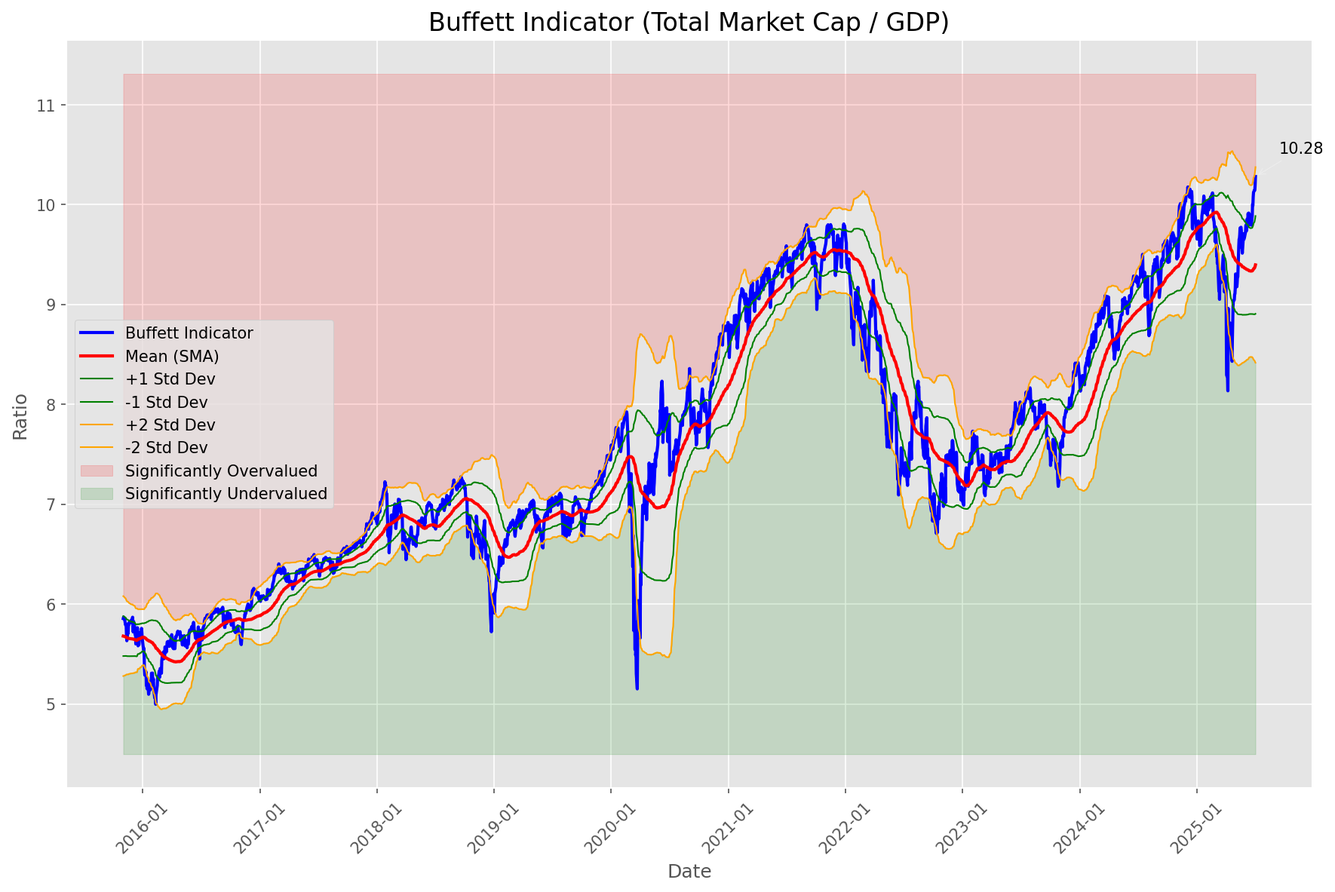
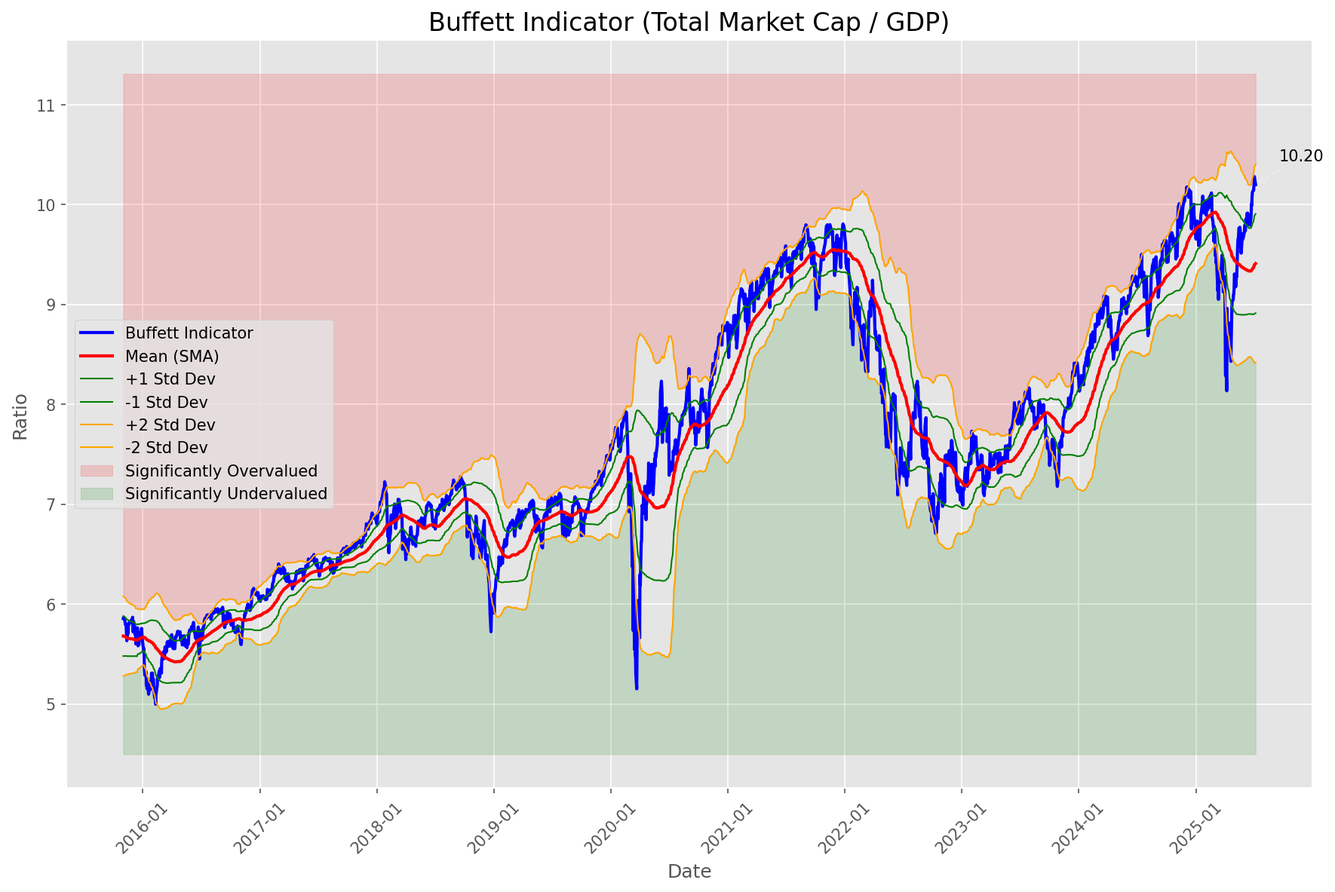
Add market report for 2025-07-08

diff --git a/oneil_relative_strength_report_2025-07-08.md b/oneil_relative_strength_report_2025-07-08.md
@@ -10,10 +10,10 @@
 |--------|-------|
 | **Market Valuation** | **Overvalued** |
 | **Current Ratio** | 10.20 |
-| **Historical Mean** | 9.40 |
-| **Standard Deviation** | 0.49 |
-| **Z-Score (StdDev from Mean)** | 1.81 |
-| **Total Market Cap** | $305.60 trillion |
+| **Historical Mean** | 9.41 |
+| **Standard Deviation** | 0.50 |
+| **Z-Score (StdDev from Mean)** | 1.59 |
+| **Total Market Cap** | $305.67 trillion |
 | **GDP** | $29.96 trillion |
 
 ## **Market Insights**
@@ -49,41 +49,41 @@ Based on William O'Neil's Relative Strength Methodology
 
 | ETF | Strength | RS Rating | Performance | Above Key MAs | Trend | Sector |
 |-----|----------|-----------|-------------|--------------|-------|--------|
-| [ARKW](https://www.tradingview.com/chart/?symbol=ARKW) | 98.5 | 97.0 | 62.73% | 10d ✓, 50d ✓, 200d ✓ | ↗ | Next Generation Internet |
-| [ARKK](https://www.tradingview.com/chart/?symbol=ARKK) | 98.0 | 96.0 | 56.12% | 10d ✓, 50d ✓, 200d ✓ | ↗ | Innovation |
-| [ARKF](https://www.tradingview.com/chart/?symbol=ARKF) | 98.0 | 96.0 | 59.26% | 10d ✓, 50d ✓, 200d ✓ | ↗ | Fintech Innovation |
-| [BLOK](https://www.tradingview.com/chart/?symbol=BLOK) | 97.5 | 95.0 | 53.81% | 10d ✓, 50d ✓, 200d ✓ | ↗ | Blockchain & Cryptocurrency |
-| [XLK](https://www.tradingview.com/chart/?symbol=XLK) | 92.5 | 85.0 | 30.57% | 10d ✓, 50d ✓, 200d ✓ | ↗ | Technology |
-| [AIQ](https://www.tradingview.com/chart/?symbol=AIQ) | 90.0 | 80.0 | 25.01% | 10d ✓, 50d ✓, 200d ✓ | ↗ | Artificial Intelligence & Technology |
-| [JETS](https://www.tradingview.com/chart/?symbol=JETS) | 89.5 | 79.0 | 24.53% | 10d ✓, 50d ✓, 200d ✓ | ↗ | Airlines |
-| [URA](https://www.tradingview.com/chart/?symbol=URA) | 89.1 | 98.0 | 69.10% | 10d ✗, 50d ✓, 200d ✓ | ↗ | Uranium |
-| [CIBR](https://www.tradingview.com/chart/?symbol=CIBR) | 89.0 | 78.0 | 23.52% | 10d ✓, 50d ✓, 200d ✓ | ↗ | Cybersecurity |
-| [PAVE](https://www.tradingview.com/chart/?symbol=PAVE) | 88.5 | 77.0 | 23.07% | 10d ✓, 50d ✓, 200d ✓ | ↗ | Infrastructure |
-| [XLI](https://www.tradingview.com/chart/?symbol=XLI) | 85.0 | 70.0 | 18.32% | 10d ✓, 50d ✓, 200d ✓ | ↗ | Industrial |
-| [SLV](https://www.tradingview.com/chart/?symbol=SLV) | 82.5 | 65.0 | 15.71% | 10d ✓, 50d ✓, 200d ✓ | ↗ | Silver |
-| [XLC](https://www.tradingview.com/chart/?symbol=XLC) | 82.5 | 65.0 | 15.64% | 10d ✓, 50d ✓, 200d ✓ | ↗ | Communications |
-| [XLY](https://www.tradingview.com/chart/?symbol=XLY) | 81.5 | 63.0 | 14.33% | 10d ✓, 50d ✓, 200d ✓ | ↗ | Consumer Discretionary |
-| [IYZ](https://www.tradingview.com/chart/?symbol=IYZ) | 79.0 | 58.0 | 12.04% | 10d ✓, 50d ✓, 200d ✓ | ↗ | Telecommunications |
-| [XLF](https://www.tradingview.com/chart/?symbol=XLF) | 77.5 | 55.0 | 10.46% | 10d ✓, 50d ✓, 200d ✓ | ↗ | Financial |
-| [SOXX](https://www.tradingview.com/chart/?symbol=SOXX) | 75.5 | 91.0 | 40.16% | 10d ✓, 50d ✓, 200d ✓ | ↘ | Semiconductors |
-| [GLD](https://www.tradingview.com/chart/?symbol=GLD) | 73.5 | 47.0 | 7.31% | 10d ✓, 50d ✓, 200d ✓ | ↗ | Gold |
-| [XLU](https://www.tradingview.com/chart/?symbol=XLU) | 70.0 | 40.0 | 3.92% | 10d ✓, 50d ✓, 200d ✓ | ↗ | Utilities |
-| [IYT](https://www.tradingview.com/chart/?symbol=IYT) | 65.0 | 70.0 | 18.38% | 10d ✓, 50d ✓, 200d ✓ | ↘ | Transportation |
-| [XLP](https://www.tradingview.com/chart/?symbol=XLP) | 65.0 | 30.0 | 0.11% | 10d ✓, 50d ✓, 200d ✓ | ↗ | Consumer Staples |
-| [ICLN](https://www.tradingview.com/chart/?symbol=ICLN) | 63.0 | 66.0 | 16.17% | 10d ✓, 50d ✓, 200d ✓ | ↘ | Clean Energy |
-| [ARKG](https://www.tradingview.com/chart/?symbol=ARKG) | 59.1 | 78.0 | 23.35% | 10d ✗, 50d ✓, 200d ✓ | ↘ | Genomics |
-| [XLB](https://www.tradingview.com/chart/?symbol=XLB) | 55.5 | 51.0 | 8.92% | 10d ✓, 50d ✓, 200d ✓ | ↘ | Materials |
-| [KWEB](https://www.tradingview.com/chart/?symbol=KWEB) | 51.1 | 22.0 | -2.00% | 10d ✗, 50d ✓, 200d ✓ | ↗ | Chinese Internet |
-| [DBC](https://www.tradingview.com/chart/?symbol=DBC) | 48.0 | 36.0 | 2.39% | 10d ✓, 50d ✓, 200d ✓ | ↘ | Commodities |
-| [ITB](https://www.tradingview.com/chart/?symbol=ITB) | 40.8 | 42.0 | 4.78% | 10d ✓, 50d ✓, 200d ✗ | ↘ | Home Construction |
-| [IBB](https://www.tradingview.com/chart/?symbol=IBB) | 39.3 | 39.0 | 3.50% | 10d ✓, 50d ✓, 200d ✗ | ↘ | Biotechnology |
-| [XLE](https://www.tradingview.com/chart/?symbol=XLE) | 32.8 | 26.0 | -0.63% | 10d ✓, 50d ✓, 200d ✗ | ↘ | Energy |
-| [DBA](https://www.tradingview.com/chart/?symbol=DBA) | 27.5 | 15.0 | -5.41% | 10d ✗, 50d ✗, 200d ✗ | ↗ | Agriculture |
-| [IYR](https://www.tradingview.com/chart/?symbol=IYR) | 27.4 | 35.0 | 1.92% | 10d ✗, 50d ✓, 200d ✗ | ↘ | Real Estate |
-| [UUP](https://www.tradingview.com/chart/?symbol=UUP) | 19.4 | 19.0 | -3.15% | 10d ✓, 50d ✗, 200d ✗ | ↘ | U.S. Dollar |
-| [BIL](https://www.tradingview.com/chart/?symbol=BIL) | 14.5 | 29.0 | 0.07% | 10d ✗, 50d ✗, 200d ✗ | ↘ | Short-term Treasuries |
-| [TLT](https://www.tradingview.com/chart/?symbol=TLT) | 7.0 | 14.0 | -6.22% | 10d ✗, 50d ✗, 200d ✗ | ↘ | Long-term Treasuries |
-| [XLV](https://www.tradingview.com/chart/?symbol=XLV) | 7.0 | 14.0 | -6.13% | 10d ✗, 50d ✗, 200d ✗ | ↘ | Healthcare |
+| [ARKK](https://www.tradingview.com/chart/?symbol=ARKK) | 98.5 | 97.0 | 68.72% | 10d ✓, 50d ✓, 200d ✓ | ↗ | Innovation |
+| [ARKW](https://www.tradingview.com/chart/?symbol=ARKW) | 98.0 | 96.0 | 62.73% | 10d ✓, 50d ✓, 200d ✓ | ↗ | Next Generation Internet |
+| [ARKF](https://www.tradingview.com/chart/?symbol=ARKF) | 97.5 | 95.0 | 59.26% | 10d ✓, 50d ✓, 200d ✓ | ↗ | Fintech Innovation |
+| [BLOK](https://www.tradingview.com/chart/?symbol=BLOK) | 96.5 | 93.0 | 53.81% | 10d ✓, 50d ✓, 200d ✓ | ↗ | Blockchain & Cryptocurrency |
+| [XLK](https://www.tradingview.com/chart/?symbol=XLK) | 94.0 | 88.0 | 40.28% | 10d ✓, 50d ✓, 200d ✓ | ↗ | Technology |
+| [AIQ](https://www.tradingview.com/chart/?symbol=AIQ) | 92.5 | 85.0 | 34.72% | 10d ✓, 50d ✓, 200d ✓ | ↗ | Artificial Intelligence & Technology |
+| [JETS](https://www.tradingview.com/chart/?symbol=JETS) | 92.0 | 84.0 | 33.72% | 10d ✓, 50d ✓, 200d ✓ | ↗ | Airlines |
+| [CIBR](https://www.tradingview.com/chart/?symbol=CIBR) | 91.0 | 82.0 | 31.80% | 10d ✓, 50d ✓, 200d ✓ | ↗ | Cybersecurity |
+| [URA](https://www.tradingview.com/chart/?symbol=URA) | 89.1 | 98.0 | 78.84% | 10d ✗, 50d ✓, 200d ✓ | ↗ | Uranium |
+| [XLI](https://www.tradingview.com/chart/?symbol=XLI) | 88.0 | 76.0 | 26.11% | 10d ✓, 50d ✓, 200d ✓ | ↗ | Industrial |
+| [PAVE](https://www.tradingview.com/chart/?symbol=PAVE) | 86.5 | 73.0 | 23.07% | 10d ✓, 50d ✓, 200d ✓ | ↗ | Infrastructure |
+| [SLV](https://www.tradingview.com/chart/?symbol=SLV) | 85.5 | 71.0 | 22.38% | 10d ✓, 50d ✓, 200d ✓ | ↗ | Silver |
+| [XLY](https://www.tradingview.com/chart/?symbol=XLY) | 83.0 | 66.0 | 19.34% | 10d ✓, 50d ✓, 200d ✓ | ↗ | Consumer Discretionary |
+| [XLF](https://www.tradingview.com/chart/?symbol=XLF) | 82.0 | 64.0 | 18.65% | 10d ✓, 50d ✓, 200d ✓ | ↗ | Financial |
+| [SOXX](https://www.tradingview.com/chart/?symbol=SOXX) | 76.5 | 93.0 | 53.39% | 10d ✓, 50d ✓, 200d ✓ | ↘ | Semiconductors |
+| [IYZ](https://www.tradingview.com/chart/?symbol=IYZ) | 76.0 | 52.0 | 12.04% | 10d ✓, 50d ✓, 200d ✓ | ↗ | Telecommunications |
+| [XLC](https://www.tradingview.com/chart/?symbol=XLC) | 75.6 | 71.0 | 22.22% | 10d ✗, 50d ✓, 200d ✓ | ↗ | Communications |
+| [KWEB](https://www.tradingview.com/chart/?symbol=KWEB) | 74.0 | 48.0 | 10.46% | 10d ✓, 50d ✓, 200d ✓ | ↗ | Chinese Internet |
+| [ARKG](https://www.tradingview.com/chart/?symbol=ARKG) | 70.5 | 81.0 | 30.60% | 10d ✓, 50d ✓, 200d ✓ | ↘ | Genomics |
+| [XLP](https://www.tradingview.com/chart/?symbol=XLP) | 67.0 | 34.0 | 3.93% | 10d ✓, 50d ✓, 200d ✓ | ↗ | Consumer Staples |
+| [ICLN](https://www.tradingview.com/chart/?symbol=ICLN) | 64.5 | 69.0 | 21.33% | 10d ✓, 50d ✓, 200d ✓ | ↘ | Clean Energy |
+| [IYT](https://www.tradingview.com/chart/?symbol=IYT) | 62.0 | 64.0 | 18.38% | 10d ✓, 50d ✓, 200d ✓ | ↘ | Transportation |
+| [XLB](https://www.tradingview.com/chart/?symbol=XLB) | 60.0 | 60.0 | 16.55% | 10d ✓, 50d ✓, 200d ✓ | ↘ | Materials |
+| [GLD](https://www.tradingview.com/chart/?symbol=GLD) | 52.7 | 45.0 | 8.87% | 10d ✗, 50d ✗, 200d ✓ | ↗ | Gold |
+| [XLU](https://www.tradingview.com/chart/?symbol=XLU) | 52.2 | 44.0 | 8.23% | 10d ✗, 50d ✗, 200d ✓ | ↗ | Utilities |
+| [DBC](https://www.tradingview.com/chart/?symbol=DBC) | 45.5 | 31.0 | 2.39% | 10d ✓, 50d ✓, 200d ✓ | ↘ | Commodities |
+| [XLE](https://www.tradingview.com/chart/?symbol=XLE) | 44.8 | 50.0 | 11.06% | 10d ✓, 50d ✓, 200d ✗ | ↘ | Energy |
+| [IBB](https://www.tradingview.com/chart/?symbol=IBB) | 44.3 | 49.0 | 10.58% | 10d ✓, 50d ✓, 200d ✗ | ↘ | Biotechnology |
+| [ITB](https://www.tradingview.com/chart/?symbol=ITB) | 35.8 | 32.0 | 2.76% | 10d ✓, 50d ✓, 200d ✗ | ↘ | Home Construction |
+| [XLV](https://www.tradingview.com/chart/?symbol=XLV) | 32.3 | 25.0 | 0.10% | 10d ✓, 50d ✓, 200d ✗ | ↘ | Healthcare |
+| [IYR](https://www.tradingview.com/chart/?symbol=IYR) | 29.9 | 40.0 | 6.49% | 10d ✗, 50d ✓, 200d ✗ | ↘ | Real Estate |
+| [DBA](https://www.tradingview.com/chart/?symbol=DBA) | 26.0 | 12.0 | -5.41% | 10d ✗, 50d ✗, 200d ✗ | ↗ | Agriculture |
+| [UUP](https://www.tradingview.com/chart/?symbol=UUP) | 16.9 | 14.0 | -3.86% | 10d ✓, 50d ✗, 200d ✗ | ↘ | U.S. Dollar |
+| [BIL](https://www.tradingview.com/chart/?symbol=BIL) | 12.0 | 24.0 | 0.04% | 10d ✗, 50d ✗, 200d ✗ | ↘ | Short-term Treasuries |
+| [TLT](https://www.tradingview.com/chart/?symbol=TLT) | 5.0 | 10.0 | -7.75% | 10d ✗, 50d ✗, 200d ✗ | ↘ | Long-term Treasuries |
 
 ### **Sector ETF Performance Interpretation**
 
@@ -98,163 +98,164 @@ This table shows the relative strength metrics for different market sectors base
 
 ### **Current Sector Leadership**
 
-The current market leadership is coming from the following sectors: **Next Generation Internet, Innovation, Fintech Innovation**.
+The current market leadership is coming from the following sectors: **Innovation, Next Generation Internet, Fintech Innovation**.
 
-The **Next Generation Internet** sector (represented by **ARKW**) is showing particularly strong relative strength with an RS rating of 97.0 and performance of 62.73% vs. the S&P 500. This sector is trading above its 10-day, 50-day, 200-day moving average(s). Investors should consider focusing on high RS stocks within these leading sectors for potential outperformance.
+The **Innovation** sector (represented by **ARKK**) is showing particularly strong relative strength with an RS rating of 97.0 and performance of 68.72% vs. the S&P 500. This sector is trading above its 10-day, 50-day, 200-day moving average(s). Investors should consider focusing on high RS stocks within these leading sectors for potential outperformance.
 
 ---
 
 ## **Buy Recommendations**
 
-The following 58 stocks show exceptional relative strength:
+The following 49 stocks show exceptional relative strength:
 
 | RS Rating | Buy Score | Current Price | Chart | Name | Ticker |
 |-----------|-----------|---------------|-------|------|--------|
-| 100 | 100 | $183.65 | [Chart](https://www.tradingview.com/chart/?symbol=LEU) | Centrus Energy Corp. | LEU |
+| 100 | 100 | $93.09 | [Chart](https://www.tradingview.com/chart/?symbol=HOOD) | Robinhood Markets, Inc. Class A Common Stock | HOOD |
+| 100 | 100 | $180.14 | [Chart](https://www.tradingview.com/chart/?symbol=LEU) | Centrus Energy Corp. | LEU |
 | 100 | 100 | $279.80 | [Chart](https://www.tradingview.com/chart/?symbol=DAVE) | Dave Inc. Class A Common Stock | DAVE |
-| 100 | 100 | $181.50 | [Chart](https://www.tradingview.com/chart/?symbol=SEZL) | Sezzle Inc. Common Stock | SEZL |
-| 100 | 100 | $93.46 | [Chart](https://www.tradingview.com/chart/?symbol=HOOD) | Robinhood Markets, Inc. Class A Common Stock | HOOD |
-| 100 | 100 | $154.00 | [Chart](https://www.tradingview.com/chart/?symbol=CLS) | Celestica, Inc. | CLS |
-| 99 | 100 | $357.32 | [Chart](https://www.tradingview.com/chart/?symbol=CVNA) | Carvana Co. | CVNA |
-| 99 | 100 | $36.71 | [Chart](https://www.tradingview.com/chart/?symbol=GRPN) | Groupon, Inc.Common Stock | GRPN |
+| 100 | 100 | $350.68 | [Chart](https://www.tradingview.com/chart/?symbol=CVNA) | Carvana Co. | CVNA |
+| 100 | 100 | $179.87 | [Chart](https://www.tradingview.com/chart/?symbol=SEZL) | Sezzle Inc. Common Stock | SEZL |
 | 99 | 100 | $148.26 | [Chart](https://www.tradingview.com/chart/?symbol=LMB) | Limbach Holdings, Inc Common Stock | LMB |
-| 99 | 100 | $107.76 | [Chart](https://www.tradingview.com/chart/?symbol=RBLX) | Roblox Corporation | RBLX |
-| 99 | 100 | $192.85 | [Chart](https://www.tradingview.com/chart/?symbol=NET) | Cloudflare, Inc. Class A common stock, par value $0.001 per share | NET |
-| 99 | 100 | $76.01 | [Chart](https://www.tradingview.com/chart/?symbol=ODD) | ODDITY Tech Ltd. Class A Ordinary Shares | ODD |
-| 98 | 100 | $530.28 | [Chart](https://www.tradingview.com/chart/?symbol=GEV) | GE Vernova Inc. | GEV |
+| 99 | 100 | $194.02 | [Chart](https://www.tradingview.com/chart/?symbol=NET) | Cloudflare, Inc. Class A common stock, par value $0.001 per share | NET |
+| 99 | 100 | $105.58 | [Chart](https://www.tradingview.com/chart/?symbol=RBLX) | Roblox Corporation | RBLX |
+| 99 | 100 | $521.80 | [Chart](https://www.tradingview.com/chart/?symbol=GEV) | GE Vernova Inc. | GEV |
+| 98 | 100 | $315.24 | [Chart](https://www.tradingview.com/chart/?symbol=ZS) | Zscaler, Inc. Common Stock | ZS |
+| 98 | 100 | $76.01 | [Chart](https://www.tradingview.com/chart/?symbol=ODD) | ODDITY Tech Ltd. Class A Ordinary Shares | ODD |
+| 98 | 100 | $44.01 | [Chart](https://www.tradingview.com/chart/?symbol=FARO) | Faro Technologies Inc | FARO |
 | 97 | 100 | $49.80 | [Chart](https://www.tradingview.com/chart/?symbol=REVG) | REV Group, Inc. | REVG |
-| 97 | 100 | $139.12 | [Chart](https://www.tradingview.com/chart/?symbol=PLTR) | Palantir Technologies Inc. Class A Common Stock | PLTR |
-| 97 | 100 | $315.45 | [Chart](https://www.tradingview.com/chart/?symbol=ZS) | Zscaler, Inc. Common Stock | ZS |
-| 96 | 100 | $89.85 | [Chart](https://www.tradingview.com/chart/?symbol=RBRK) | Rubrik, Inc. | RBRK |
-| 96 | 100 | $50.63 | [Chart](https://www.tradingview.com/chart/?symbol=ARKF) | ARK Fintech Innovation ETF | ARKF |
-| 96 | 100 | $43.91 | [Chart](https://www.tradingview.com/chart/?symbol=FARO) | Faro Technologies Inc | FARO |
-| 96 | 100 | $38.31 | [Chart](https://www.tradingview.com/chart/?symbol=AS) | Amer Sports, Inc. | AS |
-| 95 | 100 | $50.99 | [Chart](https://www.tradingview.com/chart/?symbol=INOD) | Innodata Inc. | INOD |
-| 95 | 100 | $34.29 | [Chart](https://www.tradingview.com/chart/?symbol=APG) | APi Group Corporation | APG |
-| 94 | 100 | $802.16 | [Chart](https://www.tradingview.com/chart/?symbol=AXON) | Axon Enterprise, Inc. Common Stock | AXON |
-| 94 | 100 | $44.78 | [Chart](https://www.tradingview.com/chart/?symbol=KTOS) | Kratos Defense & Security Solutions, Inc. | KTOS |
-| 94 | 100 | $101.29 | [Chart](https://www.tradingview.com/chart/?symbol=SANM) | Sanmina  Corp | SANM |
-| 93 | 100 | $253.50 | [Chart](https://www.tradingview.com/chart/?symbol=WWD) | Woodward, Inc. | WWD |
-| 93 | 100 | $47.16 | [Chart](https://www.tradingview.com/chart/?symbol=DRS) | Leonardo DRS, Inc. Common Stock | DRS |
-| 93 | 100 | $285.81 | [Chart](https://www.tradingview.com/chart/?symbol=RL) | Ralph Lauren Corporation | RL |
-| 93 | 100 | $21.71 | [Chart](https://www.tradingview.com/chart/?symbol=MAG) | MAG Silver Corp. | MAG |
-| 93 | 100 | $180.25 | [Chart](https://www.tradingview.com/chart/?symbol=HWM) | Howmet Aerospace Inc. | HWM |
-| 93 | 100 | $505.46 | [Chart](https://www.tradingview.com/chart/?symbol=CRWD) | CrowdStrike Holdings, Inc. Class A Common Stock | CRWD |
-| 93 | 100 | $57.78 | [Chart](https://www.tradingview.com/chart/?symbol=IBKR) | Interactive Brokers Group, Inc. Class A Common Stock | IBKR |
-| 92 | 100 | $246.89 | [Chart](https://www.tradingview.com/chart/?symbol=DASH) | DoorDash, Inc. Class A Common Stock | DASH |
-| 92 | 100 | $92.47 | [Chart](https://www.tradingview.com/chart/?symbol=TPR) | Tapestry, Inc. Common Stock | TPR |
-| 91 | 100 | $17.49 | [Chart](https://www.tradingview.com/chart/?symbol=DAN) | Dana Incorporated | DAN |
-| 91 | 100 | $29.89 | [Chart](https://www.tradingview.com/chart/?symbol=NTGR) | NETGEAR, Inc. | NTGR |
-| 90 | 100 | $63.53 | [Chart](https://www.tradingview.com/chart/?symbol=CAKE) | Cheesecake Factory (The) | CAKE |
-| 90 | 100 | $42.63 | [Chart](https://www.tradingview.com/chart/?symbol=KD) | Kyndryl Holdings, Inc. | KD |
-| 89 | 100 | $25.41 | [Chart](https://www.tradingview.com/chart/?symbol=KAR) | OPENLANE, Inc | KAR |
-| 89 | 100 | $28.34 | [Chart](https://www.tradingview.com/chart/?symbol=SRAD) | Sportradar Group AG Class A Ordinary Shares | SRAD |
-| 88 | 98 | $218.13 | [Chart](https://www.tradingview.com/chart/?symbol=COF) | Capital One Financial | COF |
-| 87 | 98 | $61.40 | [Chart](https://www.tradingview.com/chart/?symbol=IBIT) | iShares Bitcoin Trust ETF | IBIT |
-| 87 | 98 | $30.57 | [Chart](https://www.tradingview.com/chart/?symbol=HODL) | VanEck Bitcoin ETF | HODL |
-| 87 | 98 | $47.89 | [Chart](https://www.tradingview.com/chart/?symbol=BTC) | Grayscale Bitcoin Mini Trust ETF | BTC |
-| 88 | 97 | $66.39 | [Chart](https://www.tradingview.com/chart/?symbol=RYTM) | Rhythm Pharmaceuticals, Inc. Common Stock | RYTM |
-| 86 | 97 | $5815.92 | [Chart](https://www.tradingview.com/chart/?symbol=BKNG) | Booking Holdings Inc. Common Stock | BKNG |
-| 84 | 97 | $67.05 | [Chart](https://www.tradingview.com/chart/?symbol=CHEF) | The Chef's Warehouse Inc | CHEF |
-| 82 | 96 | $94.10 | [Chart](https://www.tradingview.com/chart/?symbol=SNEX) | StoneX Group Inc. Common Stock | SNEX |
-| 85 | 95 | $47.93 | [Chart](https://www.tradingview.com/chart/?symbol=AU) | AngloGold Ashanti plc | AU |
-| 83 | 94 | $291.97 | [Chart](https://www.tradingview.com/chart/?symbol=JPM) | JPMorgan Chase & Co. | JPM |
-| 81 | 94 | $29.74 | [Chart](https://www.tradingview.com/chart/?symbol=CAE) | CAE INC | CAE |
-| 84 | 93 | $49.90 | [Chart](https://www.tradingview.com/chart/?symbol=SIL) | Global X Silver Miners ETF (NEW) | SIL |
-| 82 | 93 | $73.09 | [Chart](https://www.tradingview.com/chart/?symbol=ULS) | UL Solutions Inc. | ULS |
-| 81 | 93 | $59.79 | [Chart](https://www.tradingview.com/chart/?symbol=SHLD) | Global X Defense Tech ETF | SHLD |
-| 82 | 92 | $269.25 | [Chart](https://www.tradingview.com/chart/?symbol=FDN) | First Trust Dow Jones Internet Index Fund ETF | FDN |
-| 81 | 91 | $112.07 | [Chart](https://www.tradingview.com/chart/?symbol=SPMO) | Invesco S&P 500 Momentum ETF | SPMO |
-| 80 | 91 | $76.58 | [Chart](https://www.tradingview.com/chart/?symbol=CTVA) | Corteva, Inc. Common Stock | CTVA |
-| 81 | 90 | $123.13 | [Chart](https://www.tradingview.com/chart/?symbol=FUTU) | Futu Holdings Limited American Depositary Shares | FUTU |
-| 80 | 90 | $82.34 | [Chart](https://www.tradingview.com/chart/?symbol=WFC) | Wells Fargo & Co. | WFC |
+| 97 | 100 | $51.23 | [Chart](https://www.tradingview.com/chart/?symbol=INOD) | Innodata Inc. | INOD |
+| 97 | 100 | $88.83 | [Chart](https://www.tradingview.com/chart/?symbol=RBRK) | Rubrik, Inc. | RBRK |
+| 95 | 100 | $349.54 | [Chart](https://www.tradingview.com/chart/?symbol=APP) | Applovin Corporation Class A Common Stock | APP |
+| 95 | 100 | $179.42 | [Chart](https://www.tradingview.com/chart/?symbol=HWM) | Howmet Aerospace Inc. | HWM |
+| 95 | 100 | $21.40 | [Chart](https://www.tradingview.com/chart/?symbol=MAG) | MAG Silver Corp. | MAG |
+| 95 | 100 | $50.63 | [Chart](https://www.tradingview.com/chart/?symbol=ARKF) | ARK Fintech Innovation ETF | ARKF |
+| 95 | 100 | $44.05 | [Chart](https://www.tradingview.com/chart/?symbol=KTOS) | Kratos Defense & Security Solutions, Inc. | KTOS |
+| 95 | 100 | $506.48 | [Chart](https://www.tradingview.com/chart/?symbol=CRWD) | CrowdStrike Holdings, Inc. Class A Common Stock | CRWD |
+| 95 | 100 | $34.02 | [Chart](https://www.tradingview.com/chart/?symbol=APG) | APi Group Corporation | APG |
+| 94 | 100 | $57.44 | [Chart](https://www.tradingview.com/chart/?symbol=IBKR) | Interactive Brokers Group, Inc. Class A Common Stock | IBKR |
+| 94 | 100 | $17.44 | [Chart](https://www.tradingview.com/chart/?symbol=DAN) | Dana Incorporated | DAN |
+| 94 | 100 | $131.14 | [Chart](https://www.tradingview.com/chart/?symbol=FUTU) | Futu Holdings Limited American Depositary Shares | FUTU |
+| 93 | 100 | $46.05 | [Chart](https://www.tradingview.com/chart/?symbol=DRS) | Leonardo DRS, Inc. Common Stock | DRS |
+| 93 | 100 | $43.93 | [Chart](https://www.tradingview.com/chart/?symbol=KD) | Kyndryl Holdings, Inc. | KD |
+| 92 | 100 | $802.16 | [Chart](https://www.tradingview.com/chart/?symbol=AXON) | Axon Enterprise, Inc. Common Stock | AXON |
+| 91 | 100 | $101.29 | [Chart](https://www.tradingview.com/chart/?symbol=SANM) | Sanmina  Corp | SANM |
+| 91 | 100 | $91.61 | [Chart](https://www.tradingview.com/chart/?symbol=TPR) | Tapestry, Inc. Common Stock | TPR |
+| 90 | 100 | $253.50 | [Chart](https://www.tradingview.com/chart/?symbol=WWD) | Woodward, Inc. | WWD |
+| 90 | 100 | $285.81 | [Chart](https://www.tradingview.com/chart/?symbol=RL) | Ralph Lauren Corporation | RL |
+| 87 | 100 | $27.98 | [Chart](https://www.tradingview.com/chart/?symbol=SRAD) | Sportradar Group AG Class A Ordinary Shares | SRAD |
+| 88 | 98 | $29.89 | [Chart](https://www.tradingview.com/chart/?symbol=NTGR) | NETGEAR, Inc. | NTGR |
+| 87 | 98 | $76.83 | [Chart](https://www.tradingview.com/chart/?symbol=CTVA) | Corteva, Inc. Common Stock | CTVA |
+| 86 | 98 | $59.58 | [Chart](https://www.tradingview.com/chart/?symbol=SHLD) | Global X Defense Tech ETF | SHLD |
+| 87 | 96 | $48.31 | [Chart](https://www.tradingview.com/chart/?symbol=SIL) | Global X Silver Miners ETF (NEW) | SIL |
+| 85 | 96 | $25.41 | [Chart](https://www.tradingview.com/chart/?symbol=KAR) | OPENLANE, Inc | KAR |
+| 85 | 95 | $35.47 | [Chart](https://www.tradingview.com/chart/?symbol=ATAT) | Atour Lifestyle Holdings Limited American Depositary Shares | ATAT |
+| 85 | 95 | $111.54 | [Chart](https://www.tradingview.com/chart/?symbol=SPMO) | Invesco S&P 500 Momentum ETF | SPMO |
+| 85 | 95 | $81.97 | [Chart](https://www.tradingview.com/chart/?symbol=WFC) | Wells Fargo & Co. | WFC |
+| 82 | 95 | $65.52 | [Chart](https://www.tradingview.com/chart/?symbol=CHEF) | The Chef's Warehouse Inc | CHEF |
+| 85 | 94 | $28.89 | [Chart](https://www.tradingview.com/chart/?symbol=PAAS) | Pan American Silver Corp. | PAAS |
+| 82 | 94 | $75.84 | [Chart](https://www.tradingview.com/chart/?symbol=CIBR) | First Trust Exchange-Traded Fund II First Trust NASDAQ Cybersecurity ETF | CIBR |
+| 84 | 93 | $66.39 | [Chart](https://www.tradingview.com/chart/?symbol=RYTM) | Rhythm Pharmaceuticals, Inc. Common Stock | RYTM |
+| 83 | 93 | $90.25 | [Chart](https://www.tradingview.com/chart/?symbol=NDAQ) | Nasdaq, Inc. Common Stock | NDAQ |
+| 82 | 93 | $30.57 | [Chart](https://www.tradingview.com/chart/?symbol=HODL) | VanEck Bitcoin ETF | HODL |
+| 81 | 92 | $5815.92 | [Chart](https://www.tradingview.com/chart/?symbol=BKNG) | Booking Holdings Inc. Common Stock | BKNG |
+| 80 | 90 | $61.78 | [Chart](https://www.tradingview.com/chart/?symbol=IBIT) | iShares Bitcoin Trust ETF | IBIT |
 
 ---
 
 
 ## **Sell Recommendations**
 
-The following 77 stocks show deteriorating relative strength:
+The following 87 stocks show deteriorating relative strength:
 
 | RS Rating | Sell Score | Current Price | Chart | Name | Ticker |
 |-----------|------------|---------------|-------|------|--------|
-| 1 | 100 | $26.23 | [Chart](https://www.tradingview.com/chart/?symbol=TECS) | Direxion Daily Technology Bear 3x Shares | TECS |
-| 1 | 100 | $25.31 | [Chart](https://www.tradingview.com/chart/?symbol=QID) | ProShares UltraShort QQQ | QID |
-| 1 | 100 | $14.39 | [Chart](https://www.tradingview.com/chart/?symbol=NVDS) | Investment Managers Series Trust II Tradr 1.5X Short NVDA Daily ETF | NVDS |
-| 2 | 100 | $19.56 | [Chart](https://www.tradingview.com/chart/?symbol=BITI) | ProShares Short Bitcoin ETF | BITI |
-| 2 | 100 | $16.53 | [Chart](https://www.tradingview.com/chart/?symbol=SDS) | ProShares UltraShort S&P500 | SDS |
-| 2 | 100 | $16.05 | [Chart](https://www.tradingview.com/chart/?symbol=HP) | Helmerich & Payne, Inc. | HP |
-| 2 | 100 | $10.20 | [Chart](https://www.tradingview.com/chart/?symbol=HPK) | HighPeak Energy, Inc. Common Stock | HPK |
-| 2 | 100 | $40.57 | [Chart](https://www.tradingview.com/chart/?symbol=SDOW) | ProShares UltraPro Short Dow 30 | SDOW |
-| 2 | 100 | $24.84 | [Chart](https://www.tradingview.com/chart/?symbol=CRTO) | Criteo S.A. | CRTO |
+| 1 | 100 | $25.32 | [Chart](https://www.tradingview.com/chart/?symbol=QID) | ProShares UltraShort QQQ | QID |
+| 1 | 100 | $14.25 | [Chart](https://www.tradingview.com/chart/?symbol=NVDS) | Investment Managers Series Trust II Tradr 1.5X Short NVDA Daily ETF | NVDS |
+| 1 | 100 | $25.94 | [Chart](https://www.tradingview.com/chart/?symbol=TECS) | Direxion Daily Technology Bear 3x Shares | TECS |
+| 1 | 100 | $40.84 | [Chart](https://www.tradingview.com/chart/?symbol=SDOW) | ProShares UltraPro Short Dow 30 | SDOW |
+| 2 | 100 | $19.46 | [Chart](https://www.tradingview.com/chart/?symbol=BITI) | ProShares Short Bitcoin ETF | BITI |
+| 2 | 100 | $24.00 | [Chart](https://www.tradingview.com/chart/?symbol=DXD) | ProShares UltraShort Dow 30 | DXD |
 | 2 | 100 | $42.74 | [Chart](https://www.tradingview.com/chart/?symbol=LINE) | Lineage, Inc. Common Stock | LINE |
-| 3 | 100 | $33.68 | [Chart](https://www.tradingview.com/chart/?symbol=PSQ) | ProShares Short QQQ | PSQ |
+| 2 | 100 | $16.55 | [Chart](https://www.tradingview.com/chart/?symbol=SDS) | ProShares UltraShort S&P500 | SDS |
+| 2 | 100 | $33.69 | [Chart](https://www.tradingview.com/chart/?symbol=PSQ) | ProShares Short QQQ | PSQ |
+| 2 | 100 | $10.20 | [Chart](https://www.tradingview.com/chart/?symbol=HPK) | HighPeak Energy, Inc. Common Stock | HPK |
+| 2 | 100 | $24.84 | [Chart](https://www.tradingview.com/chart/?symbol=CRTO) | Criteo S.A. | CRTO |
 | 3 | 100 | $35.60 | [Chart](https://www.tradingview.com/chart/?symbol=SARK) | Investment Managers Series Trust II Tradr 1X Short Innovation Daily ETF | SARK |
-| 3 | 100 | $139.74 | [Chart](https://www.tradingview.com/chart/?symbol=KRYS) | Krystal Biotech, Inc. Common Stock | KRYS |
+| 3 | 100 | $39.58 | [Chart](https://www.tradingview.com/chart/?symbol=SH) | ProShares Short S&P500 | SH |
 | 3 | 100 | $35.26 | [Chart](https://www.tradingview.com/chart/?symbol=IBTA) | Ibotta, Inc. | IBTA |
-| 4 | 100 | $23.89 | [Chart](https://www.tradingview.com/chart/?symbol=DXD) | ProShares UltraShort Dow 30 | DXD |
-| 4 | 100 | $79.19 | [Chart](https://www.tradingview.com/chart/?symbol=LNTH) | Lantheus Holdings, Inc | LNTH |
-| 5 | 100 | $10.22 | [Chart](https://www.tradingview.com/chart/?symbol=LBTYK) | Liberty Global Ltd. Class C Common Shares | LBTYK |
-| 6 | 100 | $39.54 | [Chart](https://www.tradingview.com/chart/?symbol=SH) | ProShares Short S&P500 | SH |
-| 6 | 100 | $50.97 | [Chart](https://www.tradingview.com/chart/?symbol=LW) | Lamb Weston Holdings, Inc. | LW |
-| 8 | 100 | $64.07 | [Chart](https://www.tradingview.com/chart/?symbol=ZROZ) | PIMCO 25+ Year Zero Coupon U.S. Treasury Index Exchange-Traded Fund | ZROZ |
-| 9 | 100 | $51.93 | [Chart](https://www.tradingview.com/chart/?symbol=CNMD) | CONMED Corporation | CNMD |
-| 9 | 100 | $11.87 | [Chart](https://www.tradingview.com/chart/?symbol=LBRT) | Liberty Energy Inc. | LBRT |
-| 9 | 100 | $29.22 | [Chart](https://www.tradingview.com/chart/?symbol=QDEL) | QuidelOrtho Corporation Common Stock | QDEL |
-| 10 | 100 | $82.50 | [Chart](https://www.tradingview.com/chart/?symbol=KSPI) | Joint Stock Company Kaspi.kz American Depository Shares | KSPI |
-| 11 | 100 | $13.85 | [Chart](https://www.tradingview.com/chart/?symbol=OCSL) | Oaktree Specialty Lending Corporation | OCSL |
-| 12 | 100 | $85.60 | [Chart](https://www.tradingview.com/chart/?symbol=SIGI) | Selective Insurance Group | SIGI |
-| 14 | 100 | $17.92 | [Chart](https://www.tradingview.com/chart/?symbol=ZTO) | ZTO Express (Cayman) Inc. American Depositary Shares, each representing one Class A ordinary share | ZTO |
+| 3 | 100 | $79.19 | [Chart](https://www.tradingview.com/chart/?symbol=LNTH) | Lantheus Holdings, Inc | LNTH |
+| 3 | 100 | $139.74 | [Chart](https://www.tradingview.com/chart/?symbol=KRYS) | Krystal Biotech, Inc. Common Stock | KRYS |
+| 4 | 100 | $16.71 | [Chart](https://www.tradingview.com/chart/?symbol=HP) | Helmerich & Payne, Inc. | HP |
+| 4 | 100 | $10.22 | [Chart](https://www.tradingview.com/chart/?symbol=LBTYK) | Liberty Global Ltd. Class C Common Shares | LBTYK |
+| 5 | 100 | $25.38 | [Chart](https://www.tradingview.com/chart/?symbol=DOG) | ProShares Short Dow30 | DOG |
+| 5 | 100 | $12.75 | [Chart](https://www.tradingview.com/chart/?symbol=CCRN) | Cross Country Healthcare Inc | CCRN |
+| 5 | 100 | $16.48 | [Chart](https://www.tradingview.com/chart/?symbol=COLD) | Americold Realty Trust, Inc. | COLD |
+| 5 | 100 | $10.77 | [Chart](https://www.tradingview.com/chart/?symbol=SONO) | Sonos, Inc. Common Stock | SONO |
+| 6 | 100 | $14.54 | [Chart](https://www.tradingview.com/chart/?symbol=VRE) | Veris Residential, Inc. | VRE |
+| 6 | 100 | $51.20 | [Chart](https://www.tradingview.com/chart/?symbol=LW) | Lamb Weston Holdings, Inc. | LW |
+| 7 | 100 | $51.93 | [Chart](https://www.tradingview.com/chart/?symbol=CNMD) | CONMED Corporation | CNMD |
+| 7 | 100 | $64.07 | [Chart](https://www.tradingview.com/chart/?symbol=ZROZ) | PIMCO 25+ Year Zero Coupon U.S. Treasury Index Exchange-Traded Fund | ZROZ |
+| 7 | 100 | $17.84 | [Chart](https://www.tradingview.com/chart/?symbol=APLS) | Apellis Pharmaceuticals, Inc. Common Stock | APLS |
+| 9 | 100 | $45.54 | [Chart](https://www.tradingview.com/chart/?symbol=CWT) | California Water Service | CWT |
+| 9 | 100 | $52.77 | [Chart](https://www.tradingview.com/chart/?symbol=KBH) | KB Home | KBH |
+| 9 | 100 | $85.60 | [Chart](https://www.tradingview.com/chart/?symbol=SIGI) | Selective Insurance Group | SIGI |
+| 9 | 100 | $82.50 | [Chart](https://www.tradingview.com/chart/?symbol=KSPI) | Joint Stock Company Kaspi.kz American Depository Shares | KSPI |
 | 5 | 99 | $28.92 | [Chart](https://www.tradingview.com/chart/?symbol=OMCL) | Omnicell Inc | OMCL |
-| 6 | 99 | $12.75 | [Chart](https://www.tradingview.com/chart/?symbol=CCRN) | Cross Country Healthcare Inc | CCRN |
-| 7 | 99 | $14.54 | [Chart](https://www.tradingview.com/chart/?symbol=VRE) | Veris Residential, Inc. | VRE |
-| 10 | 99 | $131.65 | [Chart](https://www.tradingview.com/chart/?symbol=KMB) | Kimberly-Clark Corp. | KMB |
-| 11 | 98 | $46.96 | [Chart](https://www.tradingview.com/chart/?symbol=KBR) | KBR, Inc. | KBR |
-| 11 | 98 | $45.54 | [Chart](https://www.tradingview.com/chart/?symbol=CWT) | California Water Service | CWT |
-| 4 | 97 | $10.79 | [Chart](https://www.tradingview.com/chart/?symbol=SONO) | Sonos, Inc. Common Stock | SONO |
-| 8 | 97 | $48.32 | [Chart](https://www.tradingview.com/chart/?symbol=SNY) | Sanofi American Depositary Shares (Each representing one-half of one ordinary share) | SNY |
-| 10 | 97 | $25.31 | [Chart](https://www.tradingview.com/chart/?symbol=DOG) | ProShares Short Dow30 | DOG |
-| 10 | 97 | $38.25 | [Chart](https://www.tradingview.com/chart/?symbol=LKQ) | LKQ Corporation | LKQ |
-| 9 | 96 | $13.70 | [Chart](https://www.tradingview.com/chart/?symbol=EIC) | Eagle Point Income Company Inc. | EIC |
-| 13 | 95 | $12.61 | [Chart](https://www.tradingview.com/chart/?symbol=EWTX) | Edgewise Therapeutics, Inc. Common Stock | EWTX |
-| 12 | 94 | $40.91 | [Chart](https://www.tradingview.com/chart/?symbol=POR) | Portland General Electric Company | POR |
-| 12 | 94 | $334.06 | [Chart](https://www.tradingview.com/chart/?symbol=EG) | Everest Group, Ltd. | EG |
-| 16 | 94 | $10.38 | [Chart](https://www.tradingview.com/chart/?symbol=NMZ) | Nuveen Municipal High Income Opportunity Fund | NMZ |
-| 17 | 94 | $102.93 | [Chart](https://www.tradingview.com/chart/?symbol=DEO) | Diageo plc | DEO |
-| 15 | 93 | $29.69 | [Chart](https://www.tradingview.com/chart/?symbol=BAX) | Baxter International Inc. | BAX |
-| 20 | 93 | $10.37 | [Chart](https://www.tradingview.com/chart/?symbol=MUC) | BLACKROCK MUNIHOLDINGS CALIFORNIA QUALITY FUND, INC | MUC |
-| 10 | 92 | $25.28 | [Chart](https://www.tradingview.com/chart/?symbol=DRV) | Direxion Daily Real Estate Bear 3X Shares | DRV |
-| 12 | 92 | $26.34 | [Chart](https://www.tradingview.com/chart/?symbol=VCYT) | Veracyte, Inc. | VCYT |
-| 16 | 92 | $32.31 | [Chart](https://www.tradingview.com/chart/?symbol=INVH) | Invitation Homes Inc. Common Stock | INVH |
-| 11 | 90 | $129.71 | [Chart](https://www.tradingview.com/chart/?symbol=ICUI) | ICU Medical Inc | ICUI |
-| 15 | 90 | $76.49 | [Chart](https://www.tradingview.com/chart/?symbol=CNS) | Cohen & Steers Inc. | CNS |
-| 15 | 90 | $12.67 | [Chart](https://www.tradingview.com/chart/?symbol=PCN) | PIMCO Corporate & Income Strategy Fund | PCN |
-| 18 | 89 | $16.05 | [Chart](https://www.tradingview.com/chart/?symbol=BNL) | Broadstone Net Lease, Inc. | BNL |
-| 18 | 89 | $181.52 | [Chart](https://www.tradingview.com/chart/?symbol=UHS) | Universal Health Services, Inc. Class B | UHS |
-| 15 | 88 | $18.93 | [Chart](https://www.tradingview.com/chart/?symbol=MSDL) | Morgan Stanley Direct Lending Fund | MSDL |
-| 18 | 88 | $76.47 | [Chart](https://www.tradingview.com/chart/?symbol=AWR) | American States Water Company | AWR |
-| 22 | 88 | $61.41 | [Chart](https://www.tradingview.com/chart/?symbol=UL) | Unilever plc | UL |
-| 25 | 88 | $15.58 | [Chart](https://www.tradingview.com/chart/?symbol=HQH) | abrdn Healthcare Investors | HQH |
-| 27 | 88 | $29.12 | [Chart](https://www.tradingview.com/chart/?symbol=SPTS) | SPDR Portfolio Short Term Treasury ETF | SPTS |
-| 16 | 87 | $35.40 | [Chart](https://www.tradingview.com/chart/?symbol=AMH) | AMERICAN HOMES 4 RENT | AMH |
-| 18 | 87 | $14.13 | [Chart](https://www.tradingview.com/chart/?symbol=DOLE) | Dole plc | DOLE |
-| 22 | 87 | $772.87 | [Chart](https://www.tradingview.com/chart/?symbol=LLY) | Eli Lilly & Co. | LLY |
-| 17 | 86 | $30.20 | [Chart](https://www.tradingview.com/chart/?symbol=AXTA) | Axalta Coating Systems Ltd. | AXTA |
-| 19 | 84 | $34.90 | [Chart](https://www.tradingview.com/chart/?symbol=PECO) | Phillips Edison & Company, Inc. Common Stock | PECO |
-| 19 | 84 | $31.45 | [Chart](https://www.tradingview.com/chart/?symbol=SUPN) | Supernus Pharmaceuticals, Inc. | SUPN |
-| 19 | 84 | $68.82 | [Chart](https://www.tradingview.com/chart/?symbol=BRC) | Brady Corporation | BRC |
-| 35 | 81 | $18.20 | [Chart](https://www.tradingview.com/chart/?symbol=S) | SentinelOne, Inc. | S |
-| 24 | 80 | $111.03 | [Chart](https://www.tradingview.com/chart/?symbol=RPM) | RPM International, Inc. | RPM |
-| 28 | 80 | $22.84 | [Chart](https://www.tradingview.com/chart/?symbol=IBTG) | iShares iBonds Dec 2026 Term Treasury ETF | IBTG |
-| 27 | 77 | $300.54 | [Chart](https://www.tradingview.com/chart/?symbol=ACN) | Accenture PLC | ACN |
-| 26 | 76 | $35.20 | [Chart](https://www.tradingview.com/chart/?symbol=LTC) | LTC Properties, Inc. | LTC |
-| 32 | 75 | $117.02 | [Chart](https://www.tradingview.com/chart/?symbol=ITGR) | Integer Holdings Corporation | ITGR |
-| 38 | 74 | $469.06 | [Chart](https://www.tradingview.com/chart/?symbol=LMT) | Lockheed Martin Corp. | LMT |
-| 32 | 73 | $56.60 | [Chart](https://www.tradingview.com/chart/?symbol=DAY) | Dayforce, Inc. | DAY |
-| 36 | 72 | $124.43 | [Chart](https://www.tradingview.com/chart/?symbol=RGEN) | Repligen Corp | RGEN |
-| 37 | 72 | $28.80 | [Chart](https://www.tradingview.com/chart/?symbol=RNA) | Avidity Biosciences, Inc. Common Stock | RNA |
-| 35 | 70 | $346.29 | [Chart](https://www.tradingview.com/chart/?symbol=SHW) | The Sherwin-Williams Company | SHW |
-| 31 | 69 | $23.09 | [Chart](https://www.tradingview.com/chart/?symbol=IBHF) | iShares iBonds 2026 Term High Yield and Income ETF | IBHF |
+| 9 | 99 | $12.88 | [Chart](https://www.tradingview.com/chart/?symbol=UTZ) | Utz Brands, Inc. | UTZ |
+| 10 | 99 | $85.65 | [Chart](https://www.tradingview.com/chart/?symbol=TLT) | iShares 20+ Year Treasury Bond ETF | TLT |
+| 10 | 99 | $38.13 | [Chart](https://www.tradingview.com/chart/?symbol=LKQ) | LKQ Corporation | LKQ |
+| 17 | 99 | $17.80 | [Chart](https://www.tradingview.com/chart/?symbol=ZTO) | ZTO Express (Cayman) Inc. American Depositary Shares, each representing one Class A ordinary share | ZTO |
+| 10 | 98 | $12.61 | [Chart](https://www.tradingview.com/chart/?symbol=EWTX) | Edgewise Therapeutics, Inc. Common Stock | EWTX |
+| 11 | 98 | $61.81 | [Chart](https://www.tradingview.com/chart/?symbol=ELS) | Equity Lifestyle Properties, Inc. | ELS |
+| 13 | 98 | $131.03 | [Chart](https://www.tradingview.com/chart/?symbol=KMB) | Kimberly-Clark Corp. | KMB |
+| 8 | 97 | $13.70 | [Chart](https://www.tradingview.com/chart/?symbol=EIC) | Eagle Point Income Company Inc. | EIC |
+| 13 | 97 | $10.38 | [Chart](https://www.tradingview.com/chart/?symbol=NMZ) | Nuveen Municipal High Income Opportunity Fund | NMZ |
+| 16 | 97 | $10.37 | [Chart](https://www.tradingview.com/chart/?symbol=MUC) | BLACKROCK MUNIHOLDINGS CALIFORNIA QUALITY FUND, INC | MUC |
+| 10 | 96 | $40.91 | [Chart](https://www.tradingview.com/chart/?symbol=POR) | Portland General Electric Company | POR |
+| 10 | 96 | $334.06 | [Chart](https://www.tradingview.com/chart/?symbol=EG) | Everest Group, Ltd. | EG |
+| 11 | 96 | $48.38 | [Chart](https://www.tradingview.com/chart/?symbol=SNY) | Sanofi American Depositary Shares (Each representing one-half of one ordinary share) | SNY |
+| 8 | 94 | $25.28 | [Chart](https://www.tradingview.com/chart/?symbol=DRV) | Direxion Daily Real Estate Bear 3X Shares | DRV |
+| 10 | 94 | $26.34 | [Chart](https://www.tradingview.com/chart/?symbol=VCYT) | Veracyte, Inc. | VCYT |
+| 12 | 93 | $12.67 | [Chart](https://www.tradingview.com/chart/?symbol=PCN) | PIMCO Corporate & Income Strategy Fund | PCN |
+| 14 | 93 | $181.52 | [Chart](https://www.tradingview.com/chart/?symbol=UHS) | Universal Health Services, Inc. Class B | UHS |
+| 14 | 93 | $16.05 | [Chart](https://www.tradingview.com/chart/?symbol=BNL) | Broadstone Net Lease, Inc. | BNL |
+| 20 | 93 | $15.58 | [Chart](https://www.tradingview.com/chart/?symbol=HQH) | abrdn Healthcare Investors | HQH |
+| 22 | 93 | $29.12 | [Chart](https://www.tradingview.com/chart/?symbol=SPTS) | SPDR Portfolio Short Term Treasury ETF | SPTS |
+| 9 | 92 | $129.71 | [Chart](https://www.tradingview.com/chart/?symbol=ICUI) | ICU Medical Inc | ICUI |
+| 13 | 92 | $76.49 | [Chart](https://www.tradingview.com/chart/?symbol=CNS) | Cohen & Steers Inc. | CNS |
+| 14 | 92 | $76.47 | [Chart](https://www.tradingview.com/chart/?symbol=AWR) | American States Water Company | AWR |
+| 12 | 91 | $18.93 | [Chart](https://www.tradingview.com/chart/?symbol=MSDL) | Morgan Stanley Direct Lending Fund | MSDL |
+| 14 | 91 | $14.13 | [Chart](https://www.tradingview.com/chart/?symbol=DOLE) | Dole plc | DOLE |
+| 21 | 90 | $32.24 | [Chart](https://www.tradingview.com/chart/?symbol=INVH) | Invitation Homes Inc. Common Stock | INVH |
+| 21 | 90 | $47.19 | [Chart](https://www.tradingview.com/chart/?symbol=KBR) | KBR, Inc. | KBR |
+| 14 | 89 | $30.20 | [Chart](https://www.tradingview.com/chart/?symbol=AXTA) | Axalta Coating Systems Ltd. | AXTA |
+| 15 | 88 | $34.90 | [Chart](https://www.tradingview.com/chart/?symbol=PECO) | Phillips Edison & Company, Inc. Common Stock | PECO |
+| 15 | 88 | $68.82 | [Chart](https://www.tradingview.com/chart/?symbol=BRC) | Brady Corporation | BRC |
+| 15 | 88 | $31.45 | [Chart](https://www.tradingview.com/chart/?symbol=SUPN) | Supernus Pharmaceuticals, Inc. | SUPN |
+| 26 | 88 | $104.48 | [Chart](https://www.tradingview.com/chart/?symbol=DEO) | Diageo plc | DEO |
+| 19 | 87 | $22.94 | [Chart](https://www.tradingview.com/chart/?symbol=SCHZ) | Schwab US Aggregate Bond ETF | SCHZ |
+| 27 | 87 | $14.01 | [Chart](https://www.tradingview.com/chart/?symbol=OCSL) | Oaktree Specialty Lending Corporation | OCSL |
+| 19 | 85 | $111.03 | [Chart](https://www.tradingview.com/chart/?symbol=RPM) | RPM International, Inc. | RPM |
+| 19 | 85 | $98.00 | [Chart](https://www.tradingview.com/chart/?symbol=AGG) | iShares Core U.S. Aggregate Bond ETF | AGG |
+| 19 | 85 | $104.51 | [Chart](https://www.tradingview.com/chart/?symbol=DECK) | Deckers Outdoor Corp | DECK |
+| 23 | 85 | $22.84 | [Chart](https://www.tradingview.com/chart/?symbol=IBTG) | iShares iBonds Dec 2026 Term Treasury ETF | IBTG |
+| 17 | 84 | $36.45 | [Chart](https://www.tradingview.com/chart/?symbol=OHI) | Omega Healthcare Investors Inc. | OHI |
+| 29 | 83 | $60.83 | [Chart](https://www.tradingview.com/chart/?symbol=UL) | Unilever plc | UL |
+| 23 | 81 | $110.14 | [Chart](https://www.tradingview.com/chart/?symbol=SHV) | iShares Short Treasury Bond ETF | SHV |
+| 22 | 80 | $35.20 | [Chart](https://www.tradingview.com/chart/?symbol=LTC) | LTC Properties, Inc. | LTC |
+| 26 | 80 | $35.59 | [Chart](https://www.tradingview.com/chart/?symbol=AMH) | AMERICAN HOMES 4 RENT | AMH |
+| 27 | 80 | $117.02 | [Chart](https://www.tradingview.com/chart/?symbol=ITGR) | Integer Holdings Corporation | ITGR |
+| 22 | 78 | $80.52 | [Chart](https://www.tradingview.com/chart/?symbol=OKE) | Oneok, Inc. | OKE |
+| 30 | 78 | $124.43 | [Chart](https://www.tradingview.com/chart/?symbol=RGEN) | Repligen Corp | RGEN |
+| 34 | 78 | $13.30 | [Chart](https://www.tradingview.com/chart/?symbol=ARDT) | Ardent Health, Inc. | ARDT |
+| 28 | 77 | $40.86 | [Chart](https://www.tradingview.com/chart/?symbol=UDR) | UDR, Inc. | UDR |
+| 34 | 75 | $194.41 | [Chart](https://www.tradingview.com/chart/?symbol=RGA) | Reinsurance Group of America, Incorporated | RGA |
+| 26 | 74 | $23.09 | [Chart](https://www.tradingview.com/chart/?symbol=IBHF) | iShares iBonds 2026 Term High Yield and Income ETF | IBHF |
+| 34 | 74 | $345.14 | [Chart](https://www.tradingview.com/chart/?symbol=SHW) | The Sherwin-Williams Company | SHW |
+| 37 | 74 | $30.32 | [Chart](https://www.tradingview.com/chart/?symbol=BAX) | Baxter International Inc. | BAX |
+| 30 | 73 | $69.80 | [Chart](https://www.tradingview.com/chart/?symbol=AZN) | AstraZeneca PLC | AZN |
+| 38 | 65 | $89.10 | [Chart](https://www.tradingview.com/chart/?symbol=VNQ) | Vanguard Real Estate ETF | VNQ |
+| 39 | 61 | $39.03 | [Chart](https://www.tradingview.com/chart/?symbol=LZB) | La-Z-Boy Incorporated | LZB |
 
 ## **Methodology**
 
